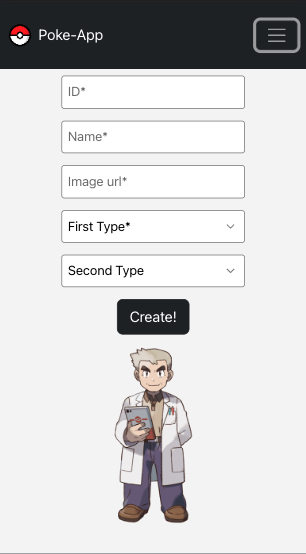
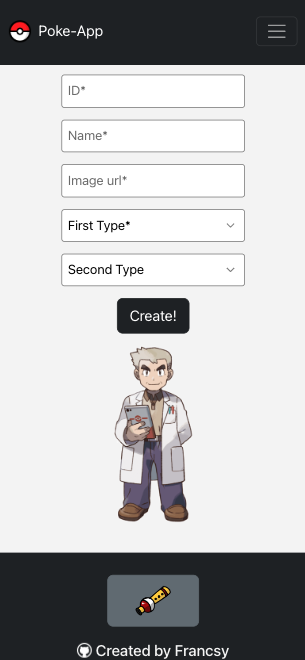
update/styles

diff --git a/src/styles/components/_New.scss b/src/styles/components/_New.scss
@@ -34,7 +34,7 @@
                 min-width: 50vw;
             }
             @media screen and (min-width: 1000px) {
-                font-size: 1.3rem;
+                font-size: 1.2rem;
                 min-width: 40vw;
             }
 

diff --git a/src/styles/views/_App.scss b/src/styles/views/_App.scss
@@ -8,7 +8,6 @@
 
 
 body {
-    min-height: 100vh;
     margin: 0;
     font-family: -apple-system, BlinkMacSystemFont, 'Segoe UI', 'Roboto', 'Oxygen',
         'Ubuntu', 'Cantarell', 'Fira Sans', 'Droid Sans', 'Helvetica Neue',

diff --git a/src/styles/components/_Main.scss b/src/styles/components/_Main.scss
@@ -4,7 +4,7 @@
     margin-top: 10vh;
     
     background-color: $poke-light;
-    min-height: 70vh;
+    min-height: 80vh;
     .poke-loader {
         max-width: 100vw;
     }

diff --git a/src/styles/components/_Footer.scss b/src/styles/components/_Footer.scss
@@ -4,7 +4,6 @@
 footer {
     background-color: $poke-dark;
     width: 100vw;
-    min-height: 20vh;
 
     &>.footer-img {
         max-width: 100vw;
